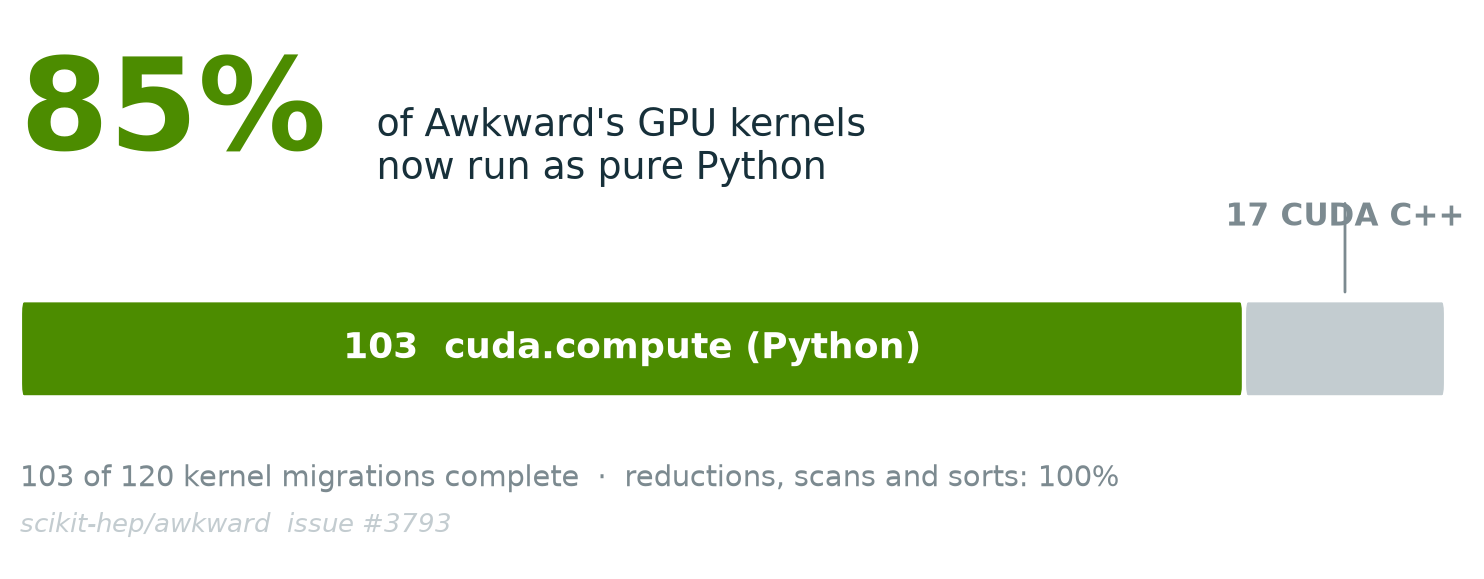
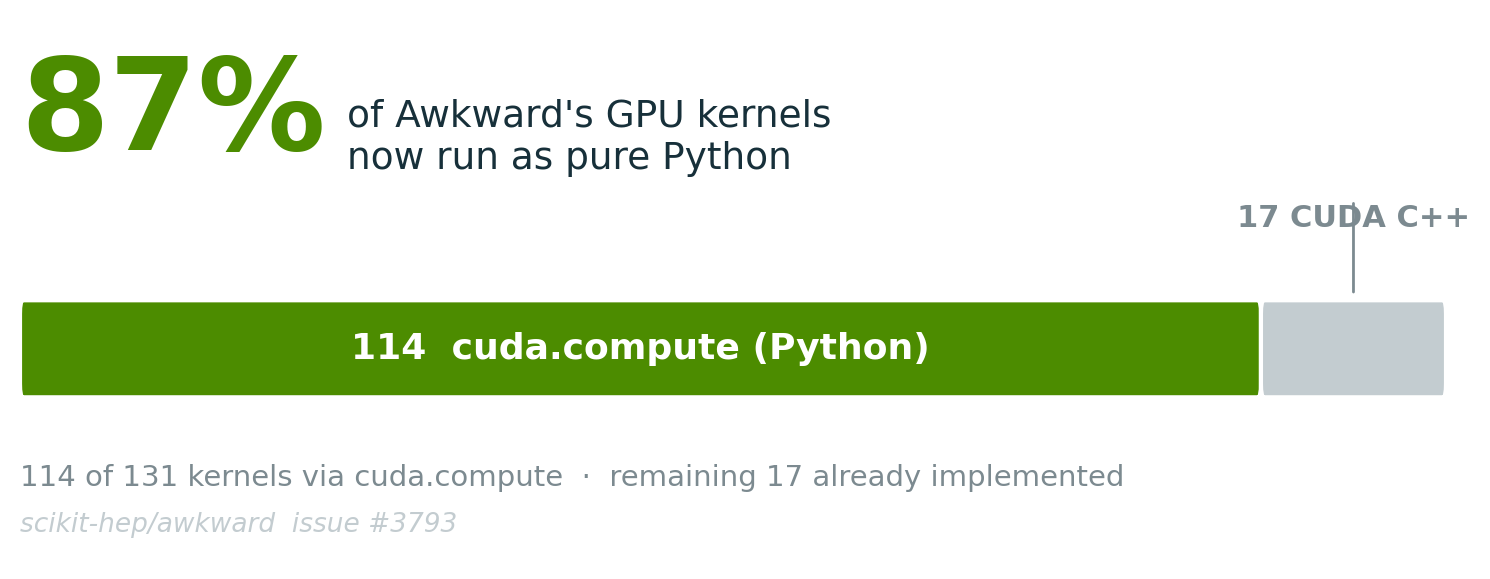
final touches

diff --git a/presentations/slides/awkward-cuda-compute/marp/scripts/mk_port_ratio.py b/presentations/slides/awkward-cuda-compute/marp/scripts/mk_port_ratio.py
@@ -1,6 +1,6 @@
 """Port-ratio figure for the 'present & future' slide.
-Recomputed from scikit-hep/awkward issue #3793: 103 of 120 kernel-migration
-sub-tasks complete = 85.8%. High-priority tier (reductions & sort) is 100%."""
+Recomputed from scikit-hep/awkward issue #3793: 114 of 131 kernels now run via
+cuda.compute (pure Python); the remaining 17 are already implemented."""
 import matplotlib; matplotlib.use("Agg")
 import matplotlib.pyplot as plt
 from matplotlib.patches import FancyBboxPatch
@@ -8,9 +8,9 @@ plt.rcParams.update({"font.family": "DejaVu Sans", "savefig.dpi": 200, "savefig.
 OUT = "/home/coder/scipy_proceedings/presentations/slides/awkward-cuda-compute/marp/figs"
 
 INK="#17303a"; GREEN="#4c8c00"; LGREEN="#e4f2d0"; GREY="#c3ccd0"; DGREY="#7c8a90"; RED="#b23b2e"
-DONE, TOTAL = 103, 120
+DONE, TOTAL = 114, 131
 REMAIN = TOTAL - DONE
-HEADLINE = "85%"   # 103/120 = 85.8%, reported as 85% to match the deck
+HEADLINE = "87%"   # 114/131 = 87.0%
 
 fig, ax = plt.subplots(figsize=(9.2, 3.5))
 ax.set_xlim(0, TOTAL); ax.set_ylim(0, 10); ax.axis("off")
@@ -34,7 +34,7 @@ ax.annotate("", xy=(DONE + REMAIN/2, y+h+0.05), xytext=(DONE + REMAIN/2, y+h+1.9
             arrowprops=dict(arrowstyle="-", color=DGREY, lw=1))
 
 # caption
-ax.text(0, 1.35, "103 of 120 kernel migrations complete  ·  reductions, scans and sorts: 100%",
+ax.text(0, 1.35, "114 of 131 kernels via cuda.compute  ·  remaining 17 already implemented",
         fontsize=10.5, color=DGREY)
 ax.text(0, 0.5, "scikit-hep/awkward  issue #3793", fontsize=9.5, color=GREY, style="italic")
 

diff --git a/presentations/slides/awkward-cuda-compute/marp/slides.md b/presentations/slides/awkward-cuda-compute/marp/slides.md
@@ -46,6 +46,10 @@ Ianna Osborne (Princeton) · **Ashwin Srinath** (NVIDIA) · SciPy 2026
 
 ## Scientific data isn't rectangular
 
+<style scoped>
+.cols > div { display: flex; flex-direction: column; justify-content: center; }
+</style>
+
 <div class="cols">
 <div>
 
@@ -85,12 +89,18 @@ Ianna Osborne (Princeton) · **Ashwin Srinath** (NVIDIA) · SciPy 2026
 
 ## GPUs prefer regular work
 
+<style scoped>
+.cols > div { display: flex; flex-direction: column; justify-content: center; }
+.cols pre code { line-height: 1.6; letter-spacing: 3px; }
+</style>
+
 <div class="cols">
 <div>
 
 <span class="cur">Traditional GPU algorithms assume</span>
 
 ```
+□□□□□
 □□□□□
 □□□□□
 □□□□□
@@ -120,6 +130,12 @@ Ianna Osborne (Princeton) · **Ashwin Srinath** (NVIDIA) · SciPy 2026
 </center>
 
 ---
+
+## Awkward Array
+
+<style scoped>
+img { display: block; margin: auto; }
+</style>
 
 ![w:760](figs/awkward_array.png)
 
@@ -947,7 +963,7 @@ binary_transform(d_in1=muons1, d_in2=muons2,
 - 114 kernels use **cuda.compute**
 - Remaining **17 kernels are already implemented**
 
-<div class="note"> Maxym Naumchyk</div>
+<div style="font-size: 20px; color: #4c8c00">Maxym Naumchyk</div>
 
 </div>
 </div>
@@ -966,9 +982,9 @@ binary_transform(d_in1=muons1, d_in2=muons2,
 </div>
 <div>
 
-![w:640](figs/layout.png)
+![w:640](figs/cpu_speedup_4056.png)
 
-<div class="note">the same <code>offsets</code> layout that maps ragged data onto GPU segmented algorithms also sped up Awkward's CPU reducers by about <b>4x</b> (awkward #4056)</div>
+<div class="note">the same <code>offsets</code> layout that maps ragged data onto GPU segmented algorithms also sped up Awkward's CPU kernels — <b>geomean 5× faster, 3.2× leaner</b> (awkward #4056)</div>
 
 </div>
 </div>
@@ -1102,7 +1118,17 @@ expr.compute(fuse=True)      # whole chain -> ONE kernel
 
 ## Eager vs Fused Execution
 
-<div class="cols">
+<style scoped>
+.diagrams { display: grid; grid-template-columns: 1fr 1fr; gap: 34px; align-items: start; flex: 0 0 auto; }
+.diagrams pre { font-size: 17px; }
+.diagrams h3 { margin: 0 0 4px 0; color: #013243; }
+.bottom { display: grid; grid-template-columns: 1.1fr 0.9fr; gap: 34px; align-items: center; flex: 1 1 auto; margin-top: 10px; }
+.bottom > div:last-child { display: flex; flex-direction: column; justify-content: flex-start; }
+.bottom ul { margin: 0; }
+.bottom li { margin: 12px 0; }
+</style>
+
+<div class="diagrams">
 <div>
 
 ### Eager
@@ -1119,6 +1145,9 @@ Memory
 Kernel
 ```
 
+</div>
+<div>
+
 ### Lazy + Fusion
 
 ```
@@ -1127,16 +1156,101 @@ Expression Graph
 One CUDA Kernel
 ```
 
+</div>
+</div>
+
+<div class="bottom">
+<div>
+
+![w:760](figs/lazy_fusion_kernels.png)
+
+<div class="note">nsys-verified launch count: N element-wise ops → 1 fused kernel.</div>
+
+</div>
+<div>
+
 - <span class="cur">fewer launches</span>
 - <span class="cur">less global memory traffic</span>
 - <span class="cur">better cache locality</span>
 
 </div>
+</div>
+
+---
+
+## How it works
+
+<div class="cols">
 <div>
 
-![w:880](figs/lazy_fusion_kernels.png)
+- <span class="cur">**Introspection**: `fusion_stats()` and `visualize(fused=True)` make the compiler's decision visible</span>
 
-<div class="note">nsys-verified launch count: N element-wise ops → 1 fused kernel.</div>
+</div>
+<div>
+
+```python
+la = ak.cuda.lazy(arr)
+t  = la * 2 + 1
+pipeline = t.filter(t > 5)
+
+pipeline.fusion_stats()
+# -> {'elementwise_before': 3, 'fused_regions': 2, 'materialized': 7}
+
+print(pipeline.visualize(fused=True))
+# FilterNode(op=filter)
+#   Input:
+#     FusedNode(leaves=3, expr='(($0 * $1) + $2)')      <- scale+shift, one kernel
+#   Condition/Mask:
+#     FusedNode(leaves=2, expr='($0 > $1)')             <- compare, one kernel
+```
+
+<div class="note" style="margin-top:14px">Fusion collapses the element-wise regions; the structural <code>filter</code> stays a boundary. The shared <code>t = la*2+1</code> is computed <b>once</b> and reused by both the filter input and the condition (single-use fusion = free CSE).</div>
+
+</div>
+</div>
+
+---
+
+## How it works
+
+<div class="cols">
+<div>
+
+- <span class="past">**Introspection**: `fusion_stats()` and `visualize(fused=True)` make the compiler's decision visible</span>
+- <span class="cur">**Transparent (debug mode)**: `fuse=True` (default) and `fuse=False` are numerically identical; the no-fuse path keeps every intermediate visible for debugging</span>
+
+</div>
+<div>
+
+```python
+expr = (ak.cuda.lazy(arr) * 2 + 1) * 3
+
+expr.compute(fuse=True)    # one fused kernel
+expr.compute(fuse=False)   # per-op interpreter — identical result
+# both -> [[9, 15, 21], [27, 33], [39, 45, 51, 57]]
+```
+
+<div class="note" style="margin-top:14px">Fusion is a fast path, never a correctness dependency — anything it can't fuse (strings, regular/indexed layouts, mixed backends) falls back to the eager path automatically, with the same answer.</div>
+
+</div>
+</div>
+
+
+---
+
+## Performance
+
+<div class="cols">
+<div>
+
+- <span class="cur">Runtime vs dataset size</span>
+
+</div>
+<div>
+
+![w:600](figs/lazy_ir_runtime_vs_size.png)
+
+<div class="note">Eager runtime grows with the dataset — each op is a separate kernel and memory pass. The fused path stays far lower and flatter: the whole chain runs as one kernel, so the gap widens as data grows.</div>
 
 </div>
 </div>
@@ -1145,43 +1259,66 @@ One CUDA Kernel
 
 ## Performance
 
+<div class="cols">
+<div>
 
-- Runtime vs dataset size ![w:880](figs/lazy_ir_runtime_vs_size.png)
+- <span class="past">Runtime vs dataset size</span>
+- <span class="cur">GPU speedup</span>
 
+</div>
+<div>
 
----
+![w:600](figs/lazy_ir_gpu_speedup.png)
 
-## Performance
+<div class="note">Speedup over the eager path climbs with dataset size and then plateaus — once the GPU is saturated, fusion's win is size-independent (dispatch-bound, not bandwidth-bound).</div>
 
-- Runtime vs dataset size 
-
-- GPU speedup ![w:880](figs/lazy_ir_gpu_speedup.png)
-
----
-
-## Performance
-
-- Runtime vs dataset size 
-
-- GPU speedup 
-
-- Kernel launch count ![w:880](figs/lazy_ir_kernel_launches.png)
+</div>
+</div>
 
 ---
 
 ## Performance
 
-- Runtime vs dataset size 
+<div class="cols">
+<div>
 
-- GPU speedup 
+- <span class="past">Runtime vs dataset size</span>
+- <span class="past">GPU speedup</span>
+- <span class="cur">Kernel launch count</span>
 
-- Kernel launch count 
+</div>
+<div>
 
-- Memory traffic ![w:880](figs/lazy_ir_memory_traffic.png)
+![w:600](figs/lazy_ir_kernel_launches.png)
 
-Key observation
+<div class="note">The eager path launches one kernel per op, so the count rises with chain length; fusion collapses the whole chain to a single launch — the source of both the speedup and the lower overhead.</div>
 
-> Fusion becomes increasingly beneficial as workloads grow.
+</div>
+</div>
+
+---
+
+## Performance
+
+<div class="cols">
+<div>
+
+- <span class="past">Runtime vs dataset size</span>
+- <span class="past">GPU speedup</span>
+- <span class="past">Kernel launch count</span>
+- <span class="cur">Memory traffic</span>
+
+<div class="note" style="margin-top:22px"><b>Key observation:</b> fusion becomes increasingly beneficial as workloads grow.</div>
+
+</div>
+<div>
+
+![w:600](figs/lazy_ir_memory_traffic.png)
+
+<div class="note">Eager writes every intermediate back to global memory and reads it again; fusion keeps intermediates in registers, so total bytes moved stays flat as the chain grows.</div>
+
+</div>
+</div>
 
 
 ---
@@ -1279,62 +1416,14 @@ https://github.com/scikit-hep/awkward
 
 https://awkward-array.org
 
-This work was supported in part by the U.S. National Science Foundation through IRIS-HEP (NSF OAC-1836650, OAC-1450377, OAC-2103945, PHY-2121686, PHY-2323298)
+<div style="display:flex; align-items:center; gap:34px; margin-top:16px;">
+<img src="figs/IRIS-HEP logo.png" height="56" />
+<img src="figs/Princeton logo.png" height="40" />
+</div>
 
+<div style="display:flex; align-items:flex-start; gap:16px; margin-top:16px;">
+<img src="figs/NSF logo.png" height="64" />
+<span style="font-size:11px; color:#45555b; white-space:nowrap;">This work was supported in part by the U.S. National Science Foundation through IRIS-HEP (NSF OAC-1836650, OAC-1450377, OAC-2103945, PHY-2121686, PHY-2323298)</span>
+</div>
 
----
-
-## Example 1 — introspection: see the fused plan
-
-`fusion_stats()` and `visualize(fused=True)` make the compiler's decision visible
-— good for a "how it works" slide.
-
-```python
-la = ak.cuda.lazy(arr)
-t  = la * 2 + 1
-pipeline = t.filter(t > 5)
-
-pipeline.fusion_stats()
-# -> {'elementwise_before': 3, 'fused_regions': 2, 'materialized': 7}
-
-print(pipeline.visualize(fused=True))
-# FilterNode(op=filter)
-#   Input:
-#     FusedNode(leaves=3, expr='(($0 * $1) + $2)')      <- scale+shift, one kernel
-#   Condition/Mask:
-#     FusedNode(leaves=2, expr='($0 > $1)')             <- compare, one kernel
-```
-
-Fusion collapses the element-wise regions; the structural `filter`
-stays a boundary. The shared `t = la*2+1` is computed **once** and reused by both
-the filter input and the condition (single-use fusion = free CSE).
-
----
-
-## Example 2 — fusion is transparent (debug mode)
-
-`fuse=True` (default) and `fuse=False` are numerically identical; the no-fuse
-path keeps every intermediate visible for debugging.
-
-```python
-expr = (ak.cuda.lazy(arr) * 2 + 1) * 3
-
-expr.compute(fuse=True)    # one fused kernel
-expr.compute(fuse=False)   # per-op interpreter — identical result
-# both -> [[9, 15, 21], [27, 33], [39, 45, 51, 57]]
-```
-
-Fusion is a fast path, never a correctness dependency — anything it
-can't fuse (strings, regular/indexed layouts, mixed backends) falls back to the
-eager path automatically, with the same answer.
-
----
-
-## Numbers to quote (all measured, all in-repo)
-
-- **32 op chain → 1 kernel** (`fusion_stats`, nsys `cuda_gpu_kern_sum`).
-- **~90× on A100** at depth-16 (`bench_lazy_fusion_results.md`: 90.68× / 89.98×).
-- **Fused time flat**: 0.19 ms (2 ops) → 0.38 ms (32 ops); eager 2.2 → 34 ms.
-- **Size-independent on GPU** (200k and 2M speedups coincide); CPU win shrinks
-  with size (8.4× → 2.9×) because CPU is dispatch-bound, GPU is launch-bound.
 
